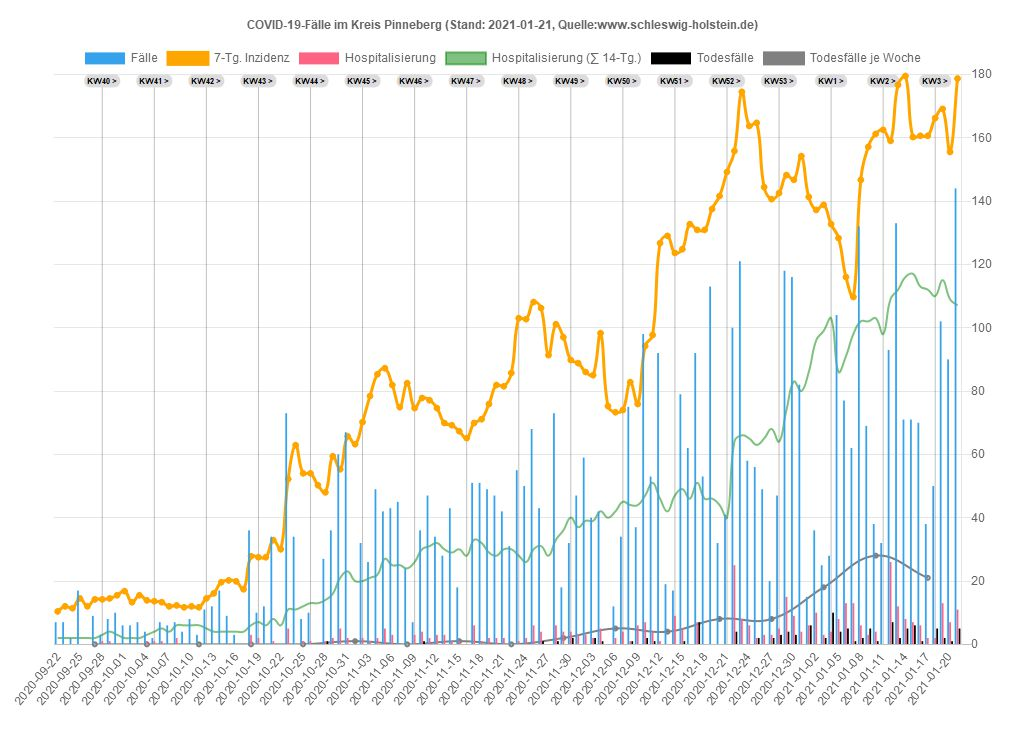
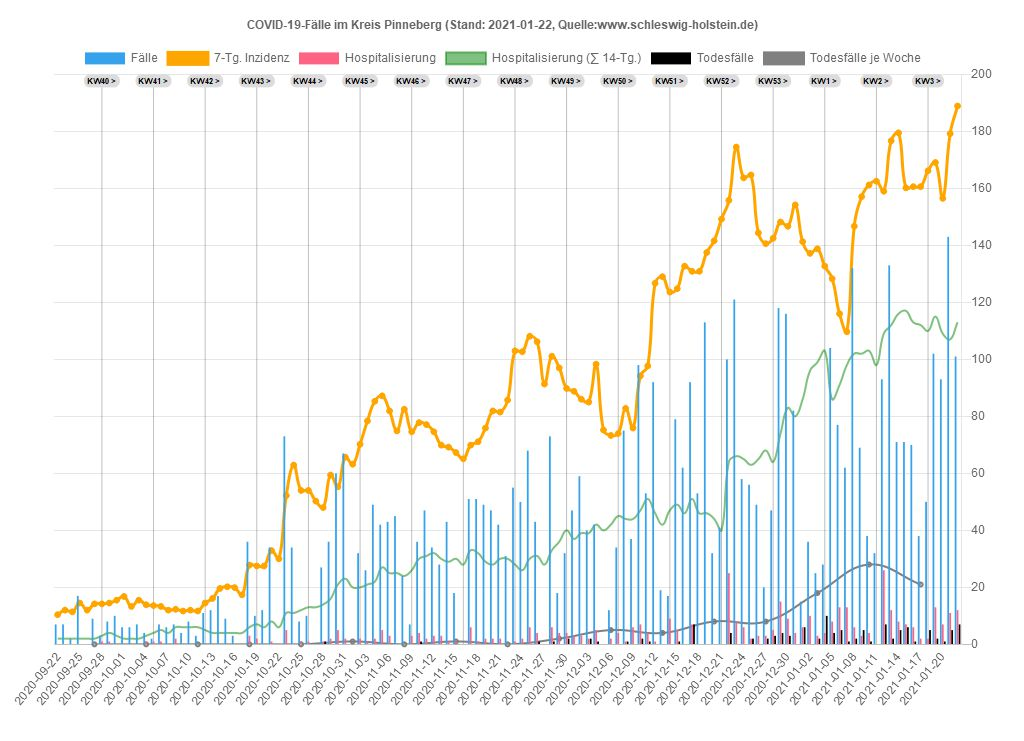
22.01.2021 20:33:09,55

diff --git a/sh/Data_SH.js b/sh/Data_SH.js
@@ -1,20 +1,20 @@
 var chdata={
-labels: ["2020-09-22","2020-09-23","2020-09-24","2020-09-25","2020-09-26","2020-09-27","2020-09-28","2020-09-29","2020-09-30","2020-10-01","2020-10-02","2020-10-03","2020-10-04","2020-10-05","2020-10-06","2020-10-07","2020-10-08","2020-10-09","2020-10-10","2020-10-11","2020-10-12","2020-10-13","2020-10-14","2020-10-15","2020-10-16","2020-10-17","2020-10-18","2020-10-19","2020-10-20","2020-10-21","2020-10-22","2020-10-23","2020-10-24","2020-10-25","2020-10-26","2020-10-27","2020-10-28","2020-10-29","2020-10-30","2020-10-31","2020-11-01","2020-11-02","2020-11-03","2020-11-04","2020-11-05","2020-11-06","2020-11-07","2020-11-08","2020-11-09","2020-11-10","2020-11-11","2020-11-12","2020-11-13","2020-11-14","2020-11-15","2020-11-16","2020-11-17","2020-11-18","2020-11-19","2020-11-20","2020-11-21","2020-11-22","2020-11-23","2020-11-24","2020-11-25","2020-11-26","2020-11-27","2020-11-28","2020-11-29","2020-11-30","2020-12-01","2020-12-02","2020-12-03","2020-12-04","2020-12-05","2020-12-06","2020-12-07","2020-12-08","2020-12-09","2020-12-10","2020-12-11","2020-12-12","2020-12-13","2020-12-14","2020-12-15","2020-12-16","2020-12-17","2020-12-18","2020-12-19","2020-12-20","2020-12-21","2020-12-22","2020-12-23","2020-12-24","2020-12-25","2020-12-26","2020-12-27","2020-12-28","2020-12-29","2020-12-30","2020-12-31","2021-01-01","2021-01-02","2021-01-03","2021-01-04","2021-01-05","2021-01-06","2021-01-07","2021-01-08","2021-01-09","2021-01-10","2021-01-11","2021-01-12","2021-01-13","2021-01-14","2021-01-15","2021-01-16","2021-01-17","2021-01-18","2021-01-19","2021-01-20","2021-01-21"],
+labels: ["2020-09-22","2020-09-23","2020-09-24","2020-09-25","2020-09-26","2020-09-27","2020-09-28","2020-09-29","2020-09-30","2020-10-01","2020-10-02","2020-10-03","2020-10-04","2020-10-05","2020-10-06","2020-10-07","2020-10-08","2020-10-09","2020-10-10","2020-10-11","2020-10-12","2020-10-13","2020-10-14","2020-10-15","2020-10-16","2020-10-17","2020-10-18","2020-10-19","2020-10-20","2020-10-21","2020-10-22","2020-10-23","2020-10-24","2020-10-25","2020-10-26","2020-10-27","2020-10-28","2020-10-29","2020-10-30","2020-10-31","2020-11-01","2020-11-02","2020-11-03","2020-11-04","2020-11-05","2020-11-06","2020-11-07","2020-11-08","2020-11-09","2020-11-10","2020-11-11","2020-11-12","2020-11-13","2020-11-14","2020-11-15","2020-11-16","2020-11-17","2020-11-18","2020-11-19","2020-11-20","2020-11-21","2020-11-22","2020-11-23","2020-11-24","2020-11-25","2020-11-26","2020-11-27","2020-11-28","2020-11-29","2020-11-30","2020-12-01","2020-12-02","2020-12-03","2020-12-04","2020-12-05","2020-12-06","2020-12-07","2020-12-08","2020-12-09","2020-12-10","2020-12-11","2020-12-12","2020-12-13","2020-12-14","2020-12-15","2020-12-16","2020-12-17","2020-12-18","2020-12-19","2020-12-20","2020-12-21","2020-12-22","2020-12-23","2020-12-24","2020-12-25","2020-12-26","2020-12-27","2020-12-28","2020-12-29","2020-12-30","2020-12-31","2021-01-01","2021-01-02","2021-01-03","2021-01-04","2021-01-05","2021-01-06","2021-01-07","2021-01-08","2021-01-09","2021-01-10","2021-01-11","2021-01-12","2021-01-13","2021-01-14","2021-01-15","2021-01-16","2021-01-17","2021-01-18","2021-01-19","2021-01-20","2021-01-21","2021-01-22"],
 datasets: [
 {label: 'Fälle',
 type: 'bar',
 backgroundColor: window.chartColors.blue,
-data: [38,42,63,53,15,15,38,48,49,27,50,16,24,39,54,45,79,54,26,25,65,65,65,55,90,26,88,163,111,160,136,236,142,115,164,164,280,215,313,265,161,142,236,262,220,274,233,177,215,252,247,192,296,158,161,100,294,208,264,250,153,121,145,251,256,225,180,219,71,81,244,240,245,318,234,122,179,356,340,443,429,444,144,210,506,522,489,553,440,193,280,589,673,366,177,201,188,268,576,466,357,135,264,203,265,542,537,482,523,408,143,261,399,491,422,417,357,202,238,471,478,503]},
+data: [38,42,63,53,15,15,38,48,49,27,50,16,24,39,54,45,79,54,26,25,65,65,65,55,90,26,88,163,111,160,136,236,142,115,164,164,280,215,313,265,161,142,236,262,220,274,233,177,215,252,247,192,296,158,161,100,294,208,264,250,153,121,145,251,256,225,180,219,71,81,244,240,245,318,234,122,179,356,340,443,429,444,144,210,506,522,489,553,440,193,280,589,673,366,177,201,188,268,576,466,357,135,264,203,265,542,537,482,523,408,143,261,399,491,422,417,358,202,239,468,481,505,421]},
 {label: '7-Tg. Inzidenz',
 type: 'line',
 fill: false,
 pointBackgroundColor: 'orange',
 borderColor: 'orange',
-data: [7.2,7.9,8.7,9.4,9.3,9.2,9.1,9.4,9.7,8.4,8.3,8.4,8.7,8.7,8.9,8.8,10.6,10.7,11.1,11.1,12.0,12.4,13.1,12.2,13.5,13.5,15.6,19.0,20.6,23.9,26.7,31.7,35.7,36.6,36.6,38.5,42.6,45.3,48.0,52.2,53.8,53.0,55.5,54.9,55.1,53.7,52.6,53.2,55.7,56.2,55.7,54.8,55.5,52.9,52.4,48.4,49.9,48.5,51.0,49.4,49.2,47.9,49.4,47.9,49.6,48.2,45.8,48.1,46.4,44.2,43.9,43.4,44.1,48.8,49.3,51.1,54.5,58.3,61.8,68.6,72.4,79.7,80.4,81.5,86.6,92.9,94.5,98.8,98.6,100.3,102.7,105.6,110.8,106.6,93.6,85.4,85.2,84.8,84.3,77.2,76.9,75.5,77.6,78.1,78.0,76.9,79.3,83.6,97.0,101.9,99.9,99.7,94.8,93.2,91.2,87.5,85.8,87.8,87.0,89.5,89.0,91.8]},
+data: [7.2,7.9,8.7,9.4,9.3,9.2,9.1,9.4,9.7,8.4,8.3,8.4,8.7,8.7,8.9,8.8,10.6,10.7,11.1,11.1,12.0,12.4,13.1,12.2,13.5,13.5,15.6,19.0,20.6,23.9,26.7,31.7,35.7,36.6,36.6,38.5,42.6,45.3,48.0,52.2,53.8,53.0,55.5,54.9,55.1,53.7,52.6,53.2,55.7,56.2,55.7,54.8,55.5,52.9,52.4,48.4,49.9,48.5,51.0,49.4,49.2,47.9,49.4,47.9,49.6,48.2,45.8,48.1,46.4,44.2,43.9,43.4,44.1,48.8,49.3,51.1,54.5,58.3,61.8,68.6,72.4,79.7,80.4,81.5,86.6,92.9,94.5,98.8,98.6,100.3,102.7,105.6,110.8,106.6,93.6,85.4,85.2,84.8,84.3,77.2,76.9,75.5,77.6,78.1,78.0,76.9,79.3,83.6,97.0,101.9,99.9,99.7,94.8,93.2,91.2,87.5,85.8,87.8,87.1,89.4,89.1,91.9,92.1]},
 {label: 'Hospitalisierung',
 type: 'bar',
 backgroundColor: window.chartColors.red,
-data: [1,2,7,1,0,0,2,1,3,1,1,0,4,3,1,1,4,2,0,3,5,1,1,2,4,0,9,10,8,9,12,7,5,6,7,7,11,10,11,6,3,9,19,20,15,15,5,7,13,15,21,13,17,8,17,13,23,10,15,9,7,7,13,16,26,19,12,14,15,10,12,8,10,14,3,5,24,13,26,20,14,12,6,26,27,16,20,18,8,13,13,43,35,23,17,21,26,25,46,33,33,20,34,32,51,58,35,46,34,30,22,45,69,51,59,52,32,37,36,51,53,47]},
+data: [1,2,7,1,0,0,2,1,3,1,1,0,4,3,1,1,4,2,0,3,5,1,1,2,4,0,9,10,8,9,12,7,5,6,7,7,11,10,11,6,3,9,19,20,15,15,5,7,13,15,21,13,17,8,17,13,23,10,15,9,7,7,13,16,26,19,12,14,15,10,12,8,10,14,3,5,24,13,26,20,14,12,6,26,27,16,20,18,8,13,13,43,35,23,17,21,26,25,46,33,33,20,34,32,51,58,35,46,34,30,22,45,69,51,59,52,32,37,36,51,53,47,34]},
 {label: 'Hosp. (∑ 14-Tg.)',
 type: 'line',
 fill: false,
@@ -22,17 +22,17 @@ hidden: true,
 borderColor: 'rgba(0,255,0,0.5)',
 borderWidth: 1.5,
 pointRadius: 0,
-data: [12,12,20,22,22,22,22,23,23,21,22,21,24,26,26,25,22,23,23,26,29,29,27,28,31,31,36,43,50,58,66,71,76,79,81,87,97,105,112,118,112,111,122,133,136,144,144,145,151,159,169,172,178,180,194,198,202,192,192,186,188,188,188,189,194,200,195,201,199,196,185,183,178,183,179,177,188,185,185,186,188,186,177,193,208,216,226,230,235,243,232,262,271,274,277,286,306,305,324,341,354,356,382,401,439,454,454,477,494,503,499,519,542,560,586,618,616,621,606,599,617,618]},
+data: [12,12,20,22,22,22,22,23,23,21,22,21,24,26,26,25,22,23,23,26,29,29,27,28,31,31,36,43,50,58,66,71,76,79,81,87,97,105,112,118,112,111,122,133,136,144,144,145,151,159,169,172,178,180,194,198,202,192,192,186,188,188,188,189,194,200,195,201,199,196,185,183,178,183,179,177,188,185,185,186,188,186,177,193,208,216,226,230,235,243,232,262,271,274,277,286,306,305,324,341,354,356,382,401,439,454,454,477,494,503,499,519,542,560,586,618,616,621,606,599,617,618,618]},
 {label: 'Aktuell im Krankenhaus',
 type: 'line',
 fill: false,
 pointBackgroundColor: 'green',
 borderColor: 'green',
-data: [6,6,6,6,6,6,6,11,11,11,11,14,14,15,15,14,14,14,13,13,18,18,18,21,24,24,24,24,31,31,31,31,51,51,58,58,58,58,58,58,58,94,110,114,119,118,124,120,126,116,113,119,112,116,116,148,145,151,141,141,141,141,155,142,122,113,118,118,118,124,114,110,109,114,114,114,131,122,128,132,133,133,133,177,181,194,201,212,236,250,275,271,267,262,262,262,262,309,318,322,346,346,376,376,390,412,376,379,364,364,364,384,362,373,382,398,426,473,454,457,457,438]},
+data: [6,6,6,6,6,6,6,11,11,11,11,14,14,15,15,14,14,14,13,13,18,18,18,21,24,24,24,24,31,31,31,31,51,51,58,58,58,58,58,58,58,94,110,114,119,118,124,120,126,116,113,119,112,116,116,148,145,151,141,141,141,141,155,142,122,113,118,118,118,124,114,110,109,114,114,114,131,122,128,132,133,133,133,177,181,194,201,212,236,250,275,271,267,262,262,262,262,309,318,322,346,346,376,376,390,412,376,379,364,364,364,384,362,373,382,398,426,473,454,457,457,438,447]},
 {label: 'Todesfälle',
 type: 'bar',
 backgroundColor: 'black',
-data: [0,0,0,0,0,0,0,1,0,0,0,0,0,0,0,0,0,0,0,0,0,1,0,0,0,0,0,0,0,0,1,0,0,3,0,0,3,4,1,0,2,6,7,2,2,6,0,1,4,3,5,0,5,1,3,5,0,2,2,2,1,0,3,4,1,3,3,1,4,2,3,1,4,1,0,1,4,2,5,7,7,1,2,2,6,7,11,3,2,0,9,15,4,3,4,7,10,18,17,14,2,9,7,3,29,22,17,6,14,11,9,15,25,15,15,24,3,1,23,16,16,18]},
+data: [0,0,0,0,0,0,0,1,0,0,0,0,0,0,0,0,0,0,0,0,0,1,0,0,0,0,0,0,0,0,1,0,0,3,0,0,3,4,1,0,2,6,7,2,2,6,0,1,4,3,5,0,5,1,3,5,0,2,2,2,1,0,3,4,1,3,3,1,4,2,3,1,4,1,0,1,4,2,5,7,7,1,2,2,6,7,11,3,2,0,9,15,4,3,4,7,10,18,17,14,2,9,7,3,29,22,17,6,14,11,9,15,25,15,15,24,3,1,23,16,16,18,16]},
 {label: 'Todesfälle je Woche',
 type: 'line',
 fill: false,
@@ -41,6 +41,6 @@ borderColor: 'rgba(128,128,128,1)',
 borderWidth: 2,
 pointRadius: 2,
 yAxisID: 'first-y-axis',
-data: [,,,,,0,,,,,,,1,,,,,,,0,,,,,,,1,,,,,,,4,,,,,,,10,,,,,,,24,,,,,,,21,,,,,,,12,,,,,,,19,,,,,,,12,,,,,,,28,,,,,,,31,,,,,,,52,,,,,,,70,,,,,,,108,,,,,,,98,,,,]},
+data: [,,,,,0,,,,,,,1,,,,,,,0,,,,,,,1,,,,,,,4,,,,,,,10,,,,,,,24,,,,,,,21,,,,,,,12,,,,,,,19,,,,,,,12,,,,,,,28,,,,,,,31,,,,,,,52,,,,,,,70,,,,,,,108,,,,,,,98,,,,,]},
 ]};
 

diff --git a/sh/Kreis_PI.js b/sh/Kreis_PI.js
@@ -1,23 +1,23 @@
 var chdata={
-labels: ["2020-09-22","2020-09-23","2020-09-24","2020-09-25","2020-09-26","2020-09-27","2020-09-28","2020-09-29","2020-09-30","2020-10-01","2020-10-02","2020-10-03","2020-10-04","2020-10-05","2020-10-06","2020-10-07","2020-10-08","2020-10-09","2020-10-10","2020-10-11","2020-10-12","2020-10-13","2020-10-14","2020-10-15","2020-10-16","2020-10-17","2020-10-18","2020-10-19","2020-10-20","2020-10-21","2020-10-22","2020-10-23","2020-10-24","2020-10-25","2020-10-26","2020-10-27","2020-10-28","2020-10-29","2020-10-30","2020-10-31","2020-11-01","2020-11-02","2020-11-03","2020-11-04","2020-11-05","2020-11-06","2020-11-07","2020-11-08","2020-11-09","2020-11-10","2020-11-11","2020-11-12","2020-11-13","2020-11-14","2020-11-15","2020-11-16","2020-11-17","2020-11-18","2020-11-19","2020-11-20","2020-11-21","2020-11-22","2020-11-23","2020-11-24","2020-11-25","2020-11-26","2020-11-27","2020-11-28","2020-11-29","2020-11-30","2020-12-01","2020-12-02","2020-12-03","2020-12-04","2020-12-05","2020-12-06","2020-12-07","2020-12-08","2020-12-09","2020-12-10","2020-12-11","2020-12-12","2020-12-13","2020-12-14","2020-12-15","2020-12-16","2020-12-17","2020-12-18","2020-12-19","2020-12-20","2020-12-21","2020-12-22","2020-12-23","2020-12-24","2020-12-25","2020-12-26","2020-12-27","2020-12-28","2020-12-29","2020-12-30","2020-12-31","2021-01-01","2021-01-02","2021-01-03","2021-01-04","2021-01-05","2021-01-06","2021-01-07","2021-01-08","2021-01-09","2021-01-10","2021-01-11","2021-01-12","2021-01-13","2021-01-14","2021-01-15","2021-01-16","2021-01-17","2021-01-18","2021-01-19","2021-01-20","2021-01-21"],
+labels: ["2020-09-22","2020-09-23","2020-09-24","2020-09-25","2020-09-26","2020-09-27","2020-09-28","2020-09-29","2020-09-30","2020-10-01","2020-10-02","2020-10-03","2020-10-04","2020-10-05","2020-10-06","2020-10-07","2020-10-08","2020-10-09","2020-10-10","2020-10-11","2020-10-12","2020-10-13","2020-10-14","2020-10-15","2020-10-16","2020-10-17","2020-10-18","2020-10-19","2020-10-20","2020-10-21","2020-10-22","2020-10-23","2020-10-24","2020-10-25","2020-10-26","2020-10-27","2020-10-28","2020-10-29","2020-10-30","2020-10-31","2020-11-01","2020-11-02","2020-11-03","2020-11-04","2020-11-05","2020-11-06","2020-11-07","2020-11-08","2020-11-09","2020-11-10","2020-11-11","2020-11-12","2020-11-13","2020-11-14","2020-11-15","2020-11-16","2020-11-17","2020-11-18","2020-11-19","2020-11-20","2020-11-21","2020-11-22","2020-11-23","2020-11-24","2020-11-25","2020-11-26","2020-11-27","2020-11-28","2020-11-29","2020-11-30","2020-12-01","2020-12-02","2020-12-03","2020-12-04","2020-12-05","2020-12-06","2020-12-07","2020-12-08","2020-12-09","2020-12-10","2020-12-11","2020-12-12","2020-12-13","2020-12-14","2020-12-15","2020-12-16","2020-12-17","2020-12-18","2020-12-19","2020-12-20","2020-12-21","2020-12-22","2020-12-23","2020-12-24","2020-12-25","2020-12-26","2020-12-27","2020-12-28","2020-12-29","2020-12-30","2020-12-31","2021-01-01","2021-01-02","2021-01-03","2021-01-04","2021-01-05","2021-01-06","2021-01-07","2021-01-08","2021-01-09","2021-01-10","2021-01-11","2021-01-12","2021-01-13","2021-01-14","2021-01-15","2021-01-16","2021-01-17","2021-01-18","2021-01-19","2021-01-20","2021-01-21","2021-01-22"],
 datasets: [
 {label: 'Fälle',
 type: 'bar',
 backgroundColor: window.chartColors.blue,
 yAxisID: 'first-y-axis',
-data: [7,7,2,17,0,9,3,8,10,6,6,7,4,2,7,6,7,4,8,3,11,12,17,9,3,0,36,10,12,34,0,73,34,8,10,0,27,36,60,67,0,32,26,49,42,43,45,24,7,36,47,34,28,43,18,0,51,51,49,47,42,31,55,50,68,43,0,73,18,32,47,59,40,42,0,12,34,75,37,98,53,92,19,17,79,62,92,53,113,32,41,100,121,58,56,49,20,47,118,116,82,15,36,25,28,104,77,62,132,69,38,32,93,133,71,71,70,38,50,102,90,144]},
+data: [7,7,2,17,0,9,3,8,10,6,6,7,4,2,7,6,7,4,8,3,11,12,17,9,3,0,36,10,12,34,0,73,34,8,10,0,27,36,60,67,0,32,26,49,42,43,45,24,7,36,47,34,28,43,18,0,51,51,49,47,42,31,55,50,68,43,0,73,18,32,47,59,40,42,0,12,34,75,37,98,53,92,19,17,79,62,92,53,113,32,41,100,121,58,56,49,20,47,118,116,82,15,36,25,28,104,77,62,132,69,38,32,93,133,71,71,70,38,50,102,93,143,101]},
 {label: '7-Tg. Inzidenz',
 type: 'line',
 fill: false,
 pointBackgroundColor: 'orange',
 borderColor: 'orange',
 yAxisID: 'first-y-axis',
-data: [10.4,12.0,11.4,14.5,12.0104175,14.2,14.2,14.5,15.5,16.8,13.3,15.5,13.9,13.6,13.3,12.0,12.3,11.7,12.0,11.7,14.5,16.1,19.6,20.2,19.9,17.383499,27.8,27.5,27.5,32.9,30.0260436,52.2,62.9,54.0,54.0,50.2541151,48.0,59.4,55.3,65.7,63.2127235,70.2,78.4,85.3,87.2,81.9,74.9,82.5,74.6,77.8,77.1,74.6,69.9,69.2,67.3,65.1091052,69.9,71.1,75.9,81.9,81.5,85.7,103.0,102.7,108.1,106.2,91.3423854,101.1,97.0,89.8,88.8,86.0,85.0,98.3,75.2231409,73.3,74.0,82.8,75.9,94.2,97.7,126.7,129.0,123.6,124.8,132.7,130.9,130.9,137.5,141.6,149.2,155.8,174.5,163.7,164.7,144.4,140.6,142.5,148.2,146.7,154.2,141.3,137.2,138.8,132.7,128.3,116.0,109.7,146.7,157.1,161.2,162.5,159.0,176.7,179.5,160.2,160.6,160.6,166.2,169.1,155.5,178.7]},
+data: [10.4,12.0,11.4,14.5,12.0104175,14.2,14.2,14.5,15.5,16.8,13.3,15.5,13.9,13.6,13.3,12.0,12.3,11.7,12.0,11.7,14.5,16.1,19.6,20.2,19.9,17.383499,27.8,27.5,27.5,32.9,30.0260436,52.2,62.9,54.0,54.0,50.2541151,48.0,59.4,55.3,65.7,63.2127235,70.2,78.4,85.3,87.2,81.9,74.9,82.5,74.6,77.8,77.1,74.6,69.9,69.2,67.3,65.1091052,69.9,71.1,75.9,81.9,81.5,85.7,103.0,102.7,108.1,106.2,91.3423854,101.1,97.0,89.8,88.8,86.0,85.0,98.3,75.2231409,73.3,74.0,82.8,75.9,94.2,97.7,126.7,129.0,123.6,124.8,132.7,130.9,130.9,137.5,141.6,149.2,155.8,174.5,163.7,164.7,144.4,140.6,142.5,148.2,146.7,154.2,141.3,137.2,138.8,132.7,128.3,116.0,109.7,146.7,157.1,161.2,162.5,159.0,176.7,179.5,160.2,160.6,160.6,166.2,169.1,156.5,179.2,188.9]},
 {label: 'Hospitalisierung',
 type: 'bar',
 backgroundColor: window.chartColors.red,
 yAxisID: 'first-y-axis',
-data: [0,0,0,0,0,0,1,1,0,0,0,0,1,1,1,-1,2,0,0,0,0,0,0,0,0,0,3,2,0,1,0,5,0,1,1,0,1,2,5,2,0,2,1,2,5,3,0,0,3,4,2,3,3,1,1,0,6,1,2,2,2,0,1,2,6,4,0,6,4,4,3,3,2,5,0,2,4,1,6,7,4,1,0,9,5,0,7,0,0,0,0,25,8,6,2,3,3,5,15,9,4,6,10,3,4,8,13,13,6,3,4,0,26,12,8,7,6,2,2,13,7,11]},
+data: [0,0,0,0,0,0,1,1,0,0,0,0,1,1,1,-1,2,0,0,0,0,0,0,0,0,0,3,2,0,1,0,5,0,1,1,0,1,2,5,2,0,2,1,2,5,3,0,0,3,4,2,3,3,1,1,0,6,1,2,2,2,0,1,2,6,4,0,6,4,4,3,3,2,5,0,2,4,1,6,7,4,1,0,9,5,0,7,0,0,0,0,25,8,6,2,3,3,5,15,9,4,6,10,3,4,8,13,13,6,3,4,0,26,12,8,7,6,2,2,13,7,11,12]},
 {label: 'Hospitalisierung (∑ 14-Tg.)',
 type: 'line',
 pointRadius: 0,
@@ -25,12 +25,12 @@ fill: false,
 borderColor: 'rgba(0,128,0,0.5)',
 borderWidth: 2,
 yAxisID: 'first-y-axis',
-data: [2,2,2,2,2,2,3,4,3,2,2,2,3,4,5,4,6,6,6,6,5,4,4,4,4,4,6,7,6,8,6,11,11,12,13,13,14,16,21,23,20,20,21,22,27,25,25,24,26,30,31,32,30,29,30,28,33,32,29,28,30,30,28,26,30,31,28,33,36,40,37,39,39,42,40,42,45,44,44,47,51,46,42,47,49,46,51,46,46,44,40,64,66,65,63,65,68,64,74,83,80,86,96,99,103,86,91,98,102,102,103,98,109,112,116,117,113,112,110,115,109,107]},
+data: [2,2,2,2,2,2,3,4,3,2,2,2,3,4,5,4,6,6,6,6,5,4,4,4,4,4,6,7,6,8,6,11,11,12,13,13,14,16,21,23,20,20,21,22,27,25,25,24,26,30,31,32,30,29,30,28,33,32,29,28,30,30,28,26,30,31,28,33,36,40,37,39,39,42,40,42,45,44,44,47,51,46,42,47,49,46,51,46,46,44,40,64,66,65,63,65,68,64,74,83,80,86,96,99,103,86,91,98,102,102,103,98,109,112,116,117,113,112,110,115,109,107,113]},
 {label: 'Todesfälle',
 type: 'bar',
 backgroundColor: 'black',
 yAxisID: 'first-y-axis',
-data: [0,0,0,0,0,0,0,0,0,0,0,0,0,0,0,0,0,0,0,0,0,0,0,0,0,0,0,0,0,0,0,0,0,0,0,0,1,0,0,0,0,0,0,0,0,0,0,0,0,1,0,0,0,0,0,0,0,0,0,0,0,0,0,0,0,1,0,1,0,2,0,0,2,1,0,0,0,1,0,2,1,0,0,0,1,0,7,0,0,0,0,4,0,0,2,0,2,3,4,3,0,6,0,2,10,4,5,1,2,5,1,0,7,2,5,6,1,0,5,2,1,5]},
+data: [0,0,0,0,0,0,0,0,0,0,0,0,0,0,0,0,0,0,0,0,0,0,0,0,0,0,0,0,0,0,0,0,0,0,0,0,1,0,0,0,0,0,0,0,0,0,0,0,0,1,0,0,0,0,0,0,0,0,0,0,0,0,0,0,0,1,0,1,0,2,0,0,2,1,0,0,0,1,0,2,1,0,0,0,1,0,7,0,0,0,0,4,0,0,2,0,2,3,4,3,0,6,0,2,10,4,5,1,2,5,1,0,7,2,5,6,1,0,5,2,1,5,7]},
 {label: 'Todesfälle je Woche',
 type: 'line',
 fill: false,
@@ -39,6 +39,6 @@ borderColor: 'rgba(128,128,128,1)',
 borderWidth: 2,
 pointRadius: 2,
 yAxisID: 'first-y-axis',
-data: [,,,,,0,,,,,,,0,,,,,,,0,,,,,,,0,,,,,,,0,,,,,,,1,,,,,,,0,,,,,,,1,,,,,,,0,,,,,,,2,,,,,,,5,,,,,,,4,,,,,,,8,,,,,,,8,,,,,,,18,,,,,,,28,,,,,,,21,,,,]},
+data: [,,,,,0,,,,,,,0,,,,,,,0,,,,,,,0,,,,,,,0,,,,,,,1,,,,,,,0,,,,,,,1,,,,,,,0,,,,,,,2,,,,,,,5,,,,,,,4,,,,,,,8,,,,,,,8,,,,,,,18,,,,,,,28,,,,,,,21,,,,,]},
 ]};
 

diff --git a/sh/Data_SH_Alter.js b/sh/Data_SH_Alter.js
@@ -132,7 +132,8 @@ var chdata={
 				{x: '2021-01-18', y: 'Alle', v: 87.1624607, casesum: 2531},{x: '2021-01-18', y: '00-09', v: 37.3945357, casesum: 96},{x: '2021-01-18', y: '10-19', v: 76.8096461, casesum: 212},{x: '2021-01-18', y: '20-29', v: 127.515142, casesum: 408},{x: '2021-01-18', y: '30-39', v: 108.602186, casesum: 365},{x: '2021-01-18', y: '40-49', v: 87.6662893, casesum: 309},{x: '2021-01-18', y: '50-59', v: 74.0814007, casesum: 367},{x: '2021-01-18', y: '60-69', v: 56.9416554, casesum: 207},{x: '2021-01-18', y: '70-79', v: 65.2179055, casesum: 193},{x: '2021-01-18', y: '80-89', v: 151.530401, casesum: 271},{x: '2021-01-18', y: '90+', v: 357.440311, casesum: 103},
 				{x: '2021-01-19', y: 'Alle', v: 88.5399788, casesum: 2571},{x: '2021-01-19', y: '00-09', v: 35.8364301, casesum: 92},{x: '2021-01-19', y: '10-19', v: 76.0850268, casesum: 210},{x: '2021-01-19', y: '20-29', v: 125.014846, casesum: 400},{x: '2021-01-19', y: '30-39', v: 108.602186, casesum: 365},{x: '2021-01-19', y: '40-49', v: 92.4893538, casesum: 326},{x: '2021-01-19', y: '50-59', v: 72.4665473, casesum: 359},{x: '2021-01-19', y: '60-69', v: 58.8672187, casesum: 214},{x: '2021-01-19', y: '70-79', v: 66.9074886, casesum: 198},{x: '2021-01-19', y: '80-89', v: 155.444471, casesum: 278},{x: '2021-01-19', y: '90+', v: 447.667962, casesum: 129},
 				{x: '2021-01-20', y: 'Alle', v: 88.0578475, casesum: 2557},{x: '2021-01-20', y: '00-09', v: 35.8364301, casesum: 92},{x: '2021-01-20', y: '10-19', v: 71.0126917, casesum: 196},{x: '2021-01-20', y: '20-29', v: 127.82768, casesum: 409},{x: '2021-01-20', y: '30-39', v: 107.114485, casesum: 360},{x: '2021-01-20', y: '40-49', v: 94.4753215, casesum: 333},{x: '2021-01-20', y: '50-59', v: 72.2646906, casesum: 358},{x: '2021-01-20', y: '60-69', v: 58.3170577, casesum: 212},{x: '2021-01-20', y: '70-79', v: 63.1904059, casesum: 187},{x: '2021-01-20', y: '80-89', v: 152.648707, casesum: 273},{x: '2021-01-20', y: '90+', v: 475.430316, casesum: 137},
-				{x: '2021-01-21', y: 'Alle', v: 91.9148983, casesum: 2669},{x: '2021-01-21', y: '00-09', v: 35.8364301, casesum: 92},{x: '2021-01-21', y: '10-19', v: 69.2011434, casesum: 191},{x: '2021-01-21', y: '20-29', v: 124.389771, casesum: 398},{x: '2021-01-21', y: '30-39', v: 115.743151, casesum: 389},{x: '2021-01-21', y: '40-49', v: 99.0146763, casesum: 349},{x: '2021-01-21', y: '50-59', v: 76.5036809, casesum: 379},{x: '2021-01-21', y: '60-69', v: 62.9934256, casesum: 229},{x: '2021-01-21', y: '70-79', v: 68.259155, casesum: 202},{x: '2021-01-21', y: '80-89', v: 170.541595, casesum: 305},{x: '2021-01-21', y: '90+', v: 468.489728, casesum: 135}
+				{x: '2021-01-21', y: 'Alle', v: 91.9148983, casesum: 2669},{x: '2021-01-21', y: '00-09', v: 35.8364301, casesum: 92},{x: '2021-01-21', y: '10-19', v: 69.2011434, casesum: 191},{x: '2021-01-21', y: '20-29', v: 124.389771, casesum: 398},{x: '2021-01-21', y: '30-39', v: 115.743151, casesum: 389},{x: '2021-01-21', y: '40-49', v: 99.0146763, casesum: 349},{x: '2021-01-21', y: '50-59', v: 76.5036809, casesum: 379},{x: '2021-01-21', y: '60-69', v: 62.9934256, casesum: 229},{x: '2021-01-21', y: '70-79', v: 68.259155, casesum: 202},{x: '2021-01-21', y: '80-89', v: 170.541595, casesum: 305},{x: '2021-01-21', y: '90+', v: 468.489728, casesum: 135},
+				{x: '2021-01-22', y: 'Alle', v: 90.9850736, casesum: 2642},{x: '2021-01-22', y: '00-09', v: 36.2259565, casesum: 93},{x: '2021-01-22', y: '10-19', v: 68.1142145, casesum: 188},{x: '2021-01-22', y: '20-29', v: 119.389177, casesum: 382},{x: '2021-01-22', y: '30-39', v: 111.875128, casesum: 376},{x: '2021-01-22', y: '40-49', v: 93.9079022, casesum: 331},{x: '2021-01-22', y: '50-59', v: 74.8888274, casesum: 371},{x: '2021-01-22', y: '60-69', v: 60.5177014, casesum: 220},{x: '2021-01-22', y: '70-79', v: 64.2041557, casesum: 190},{x: '2021-01-22', y: '80-89', v: 186.197873, casesum: 333},{x: '2021-01-22', y: '90+', v: 548.306496, casesum: 158}
 			],
 			backgroundColor: function(context) {
 				return inzColor(context.dataset.data[context.dataIndex].v)
@@ -140,7 +141,7 @@ var chdata={
 			width: function(context) {
 				const a = context.chart.chartArea
 				if (!a) return 0
-				return (a.right - a.left) / 129.5
+				return (a.right - a.left) / 130.5
 			},
 			height: function(context) {
 				const a = context.chart.chartArea
@@ -152,7 +153,7 @@ var chdata={
 	options: {
 		legend: { display: false },
 		scales: {
-			xAxes: [{type: 'category', labels: ["2020-09-15","2020-09-16","2020-09-17","2020-09-18","2020-09-19","2020-09-20","2020-09-21","2020-09-22","2020-09-23","2020-09-24","2020-09-25","2020-09-26","2020-09-27","2020-09-28","2020-09-29","2020-09-30","2020-10-01","2020-10-02","2020-10-03","2020-10-04","2020-10-05","2020-10-06","2020-10-07","2020-10-08","2020-10-09","2020-10-10","2020-10-11","2020-10-12","2020-10-13","2020-10-14","2020-10-15","2020-10-16","2020-10-17","2020-10-18","2020-10-19","2020-10-20","2020-10-21","2020-10-22","2020-10-23","2020-10-24","2020-10-25","2020-10-26","2020-10-27","2020-10-28","2020-10-29","2020-10-30","2020-10-31","2020-11-01","2020-11-02","2020-11-03","2020-11-04","2020-11-05","2020-11-06","2020-11-07","2020-11-08","2020-11-09","2020-11-10","2020-11-11","2020-11-12","2020-11-13","2020-11-14","2020-11-15","2020-11-16","2020-11-17","2020-11-18","2020-11-19","2020-11-20","2020-11-21","2020-11-22","2020-11-23","2020-11-24","2020-11-25","2020-11-26","2020-11-27","2020-11-28","2020-11-29","2020-11-30","2020-12-01","2020-12-02","2020-12-03","2020-12-04","2020-12-05","2020-12-06","2020-12-07","2020-12-08","2020-12-09","2020-12-10","2020-12-11","2020-12-12","2020-12-13","2020-12-14","2020-12-15","2020-12-16","2020-12-17","2020-12-18","2020-12-19","2020-12-20","2020-12-21","2020-12-22","2020-12-23","2020-12-24","2020-12-25","2020-12-26","2020-12-27","2020-12-28","2020-12-29","2020-12-30","2020-12-31","2021-01-01","2021-01-02","2021-01-03","2021-01-04","2021-01-05","2021-01-06","2021-01-07","2021-01-08","2021-01-09","2021-01-10","2021-01-11","2021-01-12","2021-01-13","2021-01-14","2021-01-15","2021-01-16","2021-01-17","2021-01-18","2021-01-19","2021-01-20","2021-01-21",], ticks: {display: true},gridlines:{display:false}}],
+			xAxes: [{type: 'category', labels: ["2020-09-15","2020-09-16","2020-09-17","2020-09-18","2020-09-19","2020-09-20","2020-09-21","2020-09-22","2020-09-23","2020-09-24","2020-09-25","2020-09-26","2020-09-27","2020-09-28","2020-09-29","2020-09-30","2020-10-01","2020-10-02","2020-10-03","2020-10-04","2020-10-05","2020-10-06","2020-10-07","2020-10-08","2020-10-09","2020-10-10","2020-10-11","2020-10-12","2020-10-13","2020-10-14","2020-10-15","2020-10-16","2020-10-17","2020-10-18","2020-10-19","2020-10-20","2020-10-21","2020-10-22","2020-10-23","2020-10-24","2020-10-25","2020-10-26","2020-10-27","2020-10-28","2020-10-29","2020-10-30","2020-10-31","2020-11-01","2020-11-02","2020-11-03","2020-11-04","2020-11-05","2020-11-06","2020-11-07","2020-11-08","2020-11-09","2020-11-10","2020-11-11","2020-11-12","2020-11-13","2020-11-14","2020-11-15","2020-11-16","2020-11-17","2020-11-18","2020-11-19","2020-11-20","2020-11-21","2020-11-22","2020-11-23","2020-11-24","2020-11-25","2020-11-26","2020-11-27","2020-11-28","2020-11-29","2020-11-30","2020-12-01","2020-12-02","2020-12-03","2020-12-04","2020-12-05","2020-12-06","2020-12-07","2020-12-08","2020-12-09","2020-12-10","2020-12-11","2020-12-12","2020-12-13","2020-12-14","2020-12-15","2020-12-16","2020-12-17","2020-12-18","2020-12-19","2020-12-20","2020-12-21","2020-12-22","2020-12-23","2020-12-24","2020-12-25","2020-12-26","2020-12-27","2020-12-28","2020-12-29","2020-12-30","2020-12-31","2021-01-01","2021-01-02","2021-01-03","2021-01-04","2021-01-05","2021-01-06","2021-01-07","2021-01-08","2021-01-09","2021-01-10","2021-01-11","2021-01-12","2021-01-13","2021-01-14","2021-01-15","2021-01-16","2021-01-17","2021-01-18","2021-01-19","2021-01-20","2021-01-21","2021-01-22",], ticks: {display: true},gridlines:{display:false}}],
 			yAxes: [{type: 'category', labels: ["Alle","00-09","10-19","20-29","30-39","40-49","50-59","60-69","70-79","80-89","90+"], offset:true, ticks: {display: true},gridlines:{display:false}}],
 		},
 	}

diff --git a/sh/index_sh_alter.html b/sh/index_sh_alter.html
@@ -5,7 +5,7 @@
 <meta property="og:image" content="index_sh_alter.jpg" />
 <meta property="og:type" content="website" />
 <meta property="og:locale" content="de_DE" />
-<meta property="og:updated_time" content="2021-01-22T17:02:06+01:00" />
+<meta property="og:updated_time" content="2021-01-22T20:33:09+01:00" />
 <title>Altersverteilung der COVID-19-Fälle in Schleswig-Holstein</title>
 <link rel="stylesheet" href="../css/style.css" media="screen" type="text/css">
 <link rel="stylesheet" media="screen" href="Chart.min.css"> 

diff --git a/sh/index_pi_alter.html b/sh/index_pi_alter.html
@@ -5,7 +5,7 @@
 <meta property="og:image" content="index_pi_alter.jpg" />
 <meta property="og:type" content="website" />
 <meta property="og:locale" content="de_DE" />
-<meta property="og:updated_time" content="2021-01-22T17:02:06+01:00" />
+<meta property="og:updated_time" content="2021-01-22T20:33:09+01:00" />
 <title>Altersverteilung der COVID-19-Fälle im Kreis Pinneberg</title>
 <link rel="stylesheet" href="../css/style.css" media="screen" type="text/css">
 <link rel="stylesheet" media="screen" href="Chart.min.css"> 

diff --git a/sh/index.html b/sh/index.html
@@ -5,7 +5,7 @@
 <meta property="og:image" content="index.jpg" />
 <meta property="og:type" content="website" />
 <meta property="og:locale" content="de_DE" />
-<meta property="og:updated_time" content="2021-01-22T17:02:06+01:00" />
+<meta property="og:updated_time" content="2021-01-22T20:33:09+01:00" />
 <title>COVID-19-Fälle im Kreis Pinneberg</title>
 <link rel="stylesheet" href="../css/style.css" media="screen" type="text/css">
 <link rel="stylesheet" media="screen" href="Chart.min.css"> 
